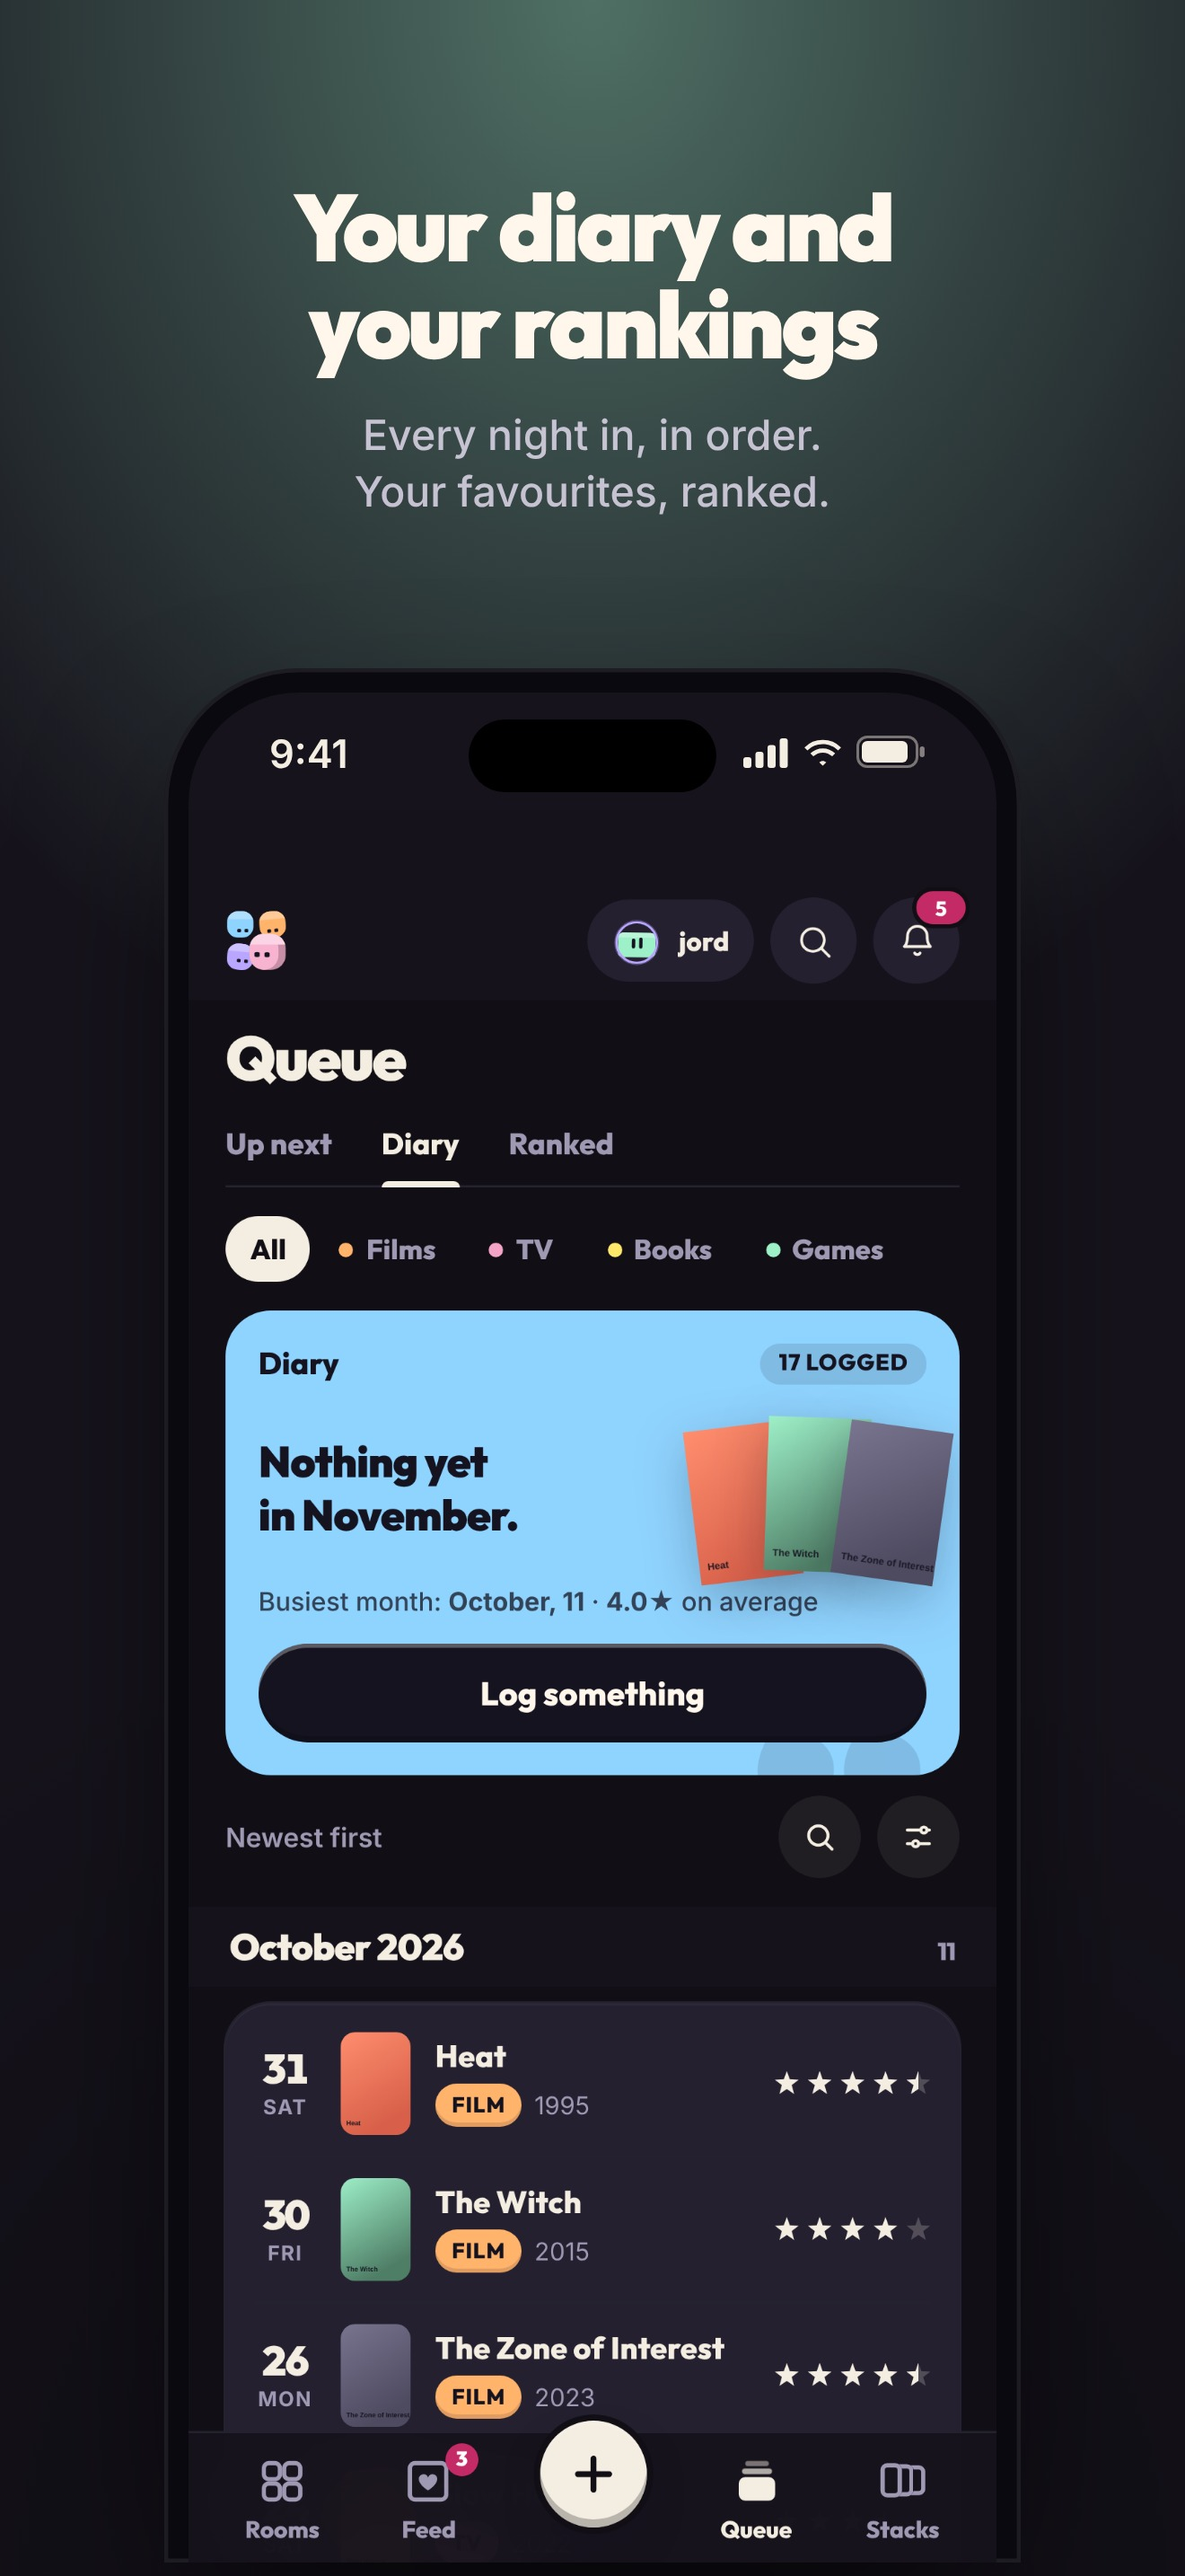
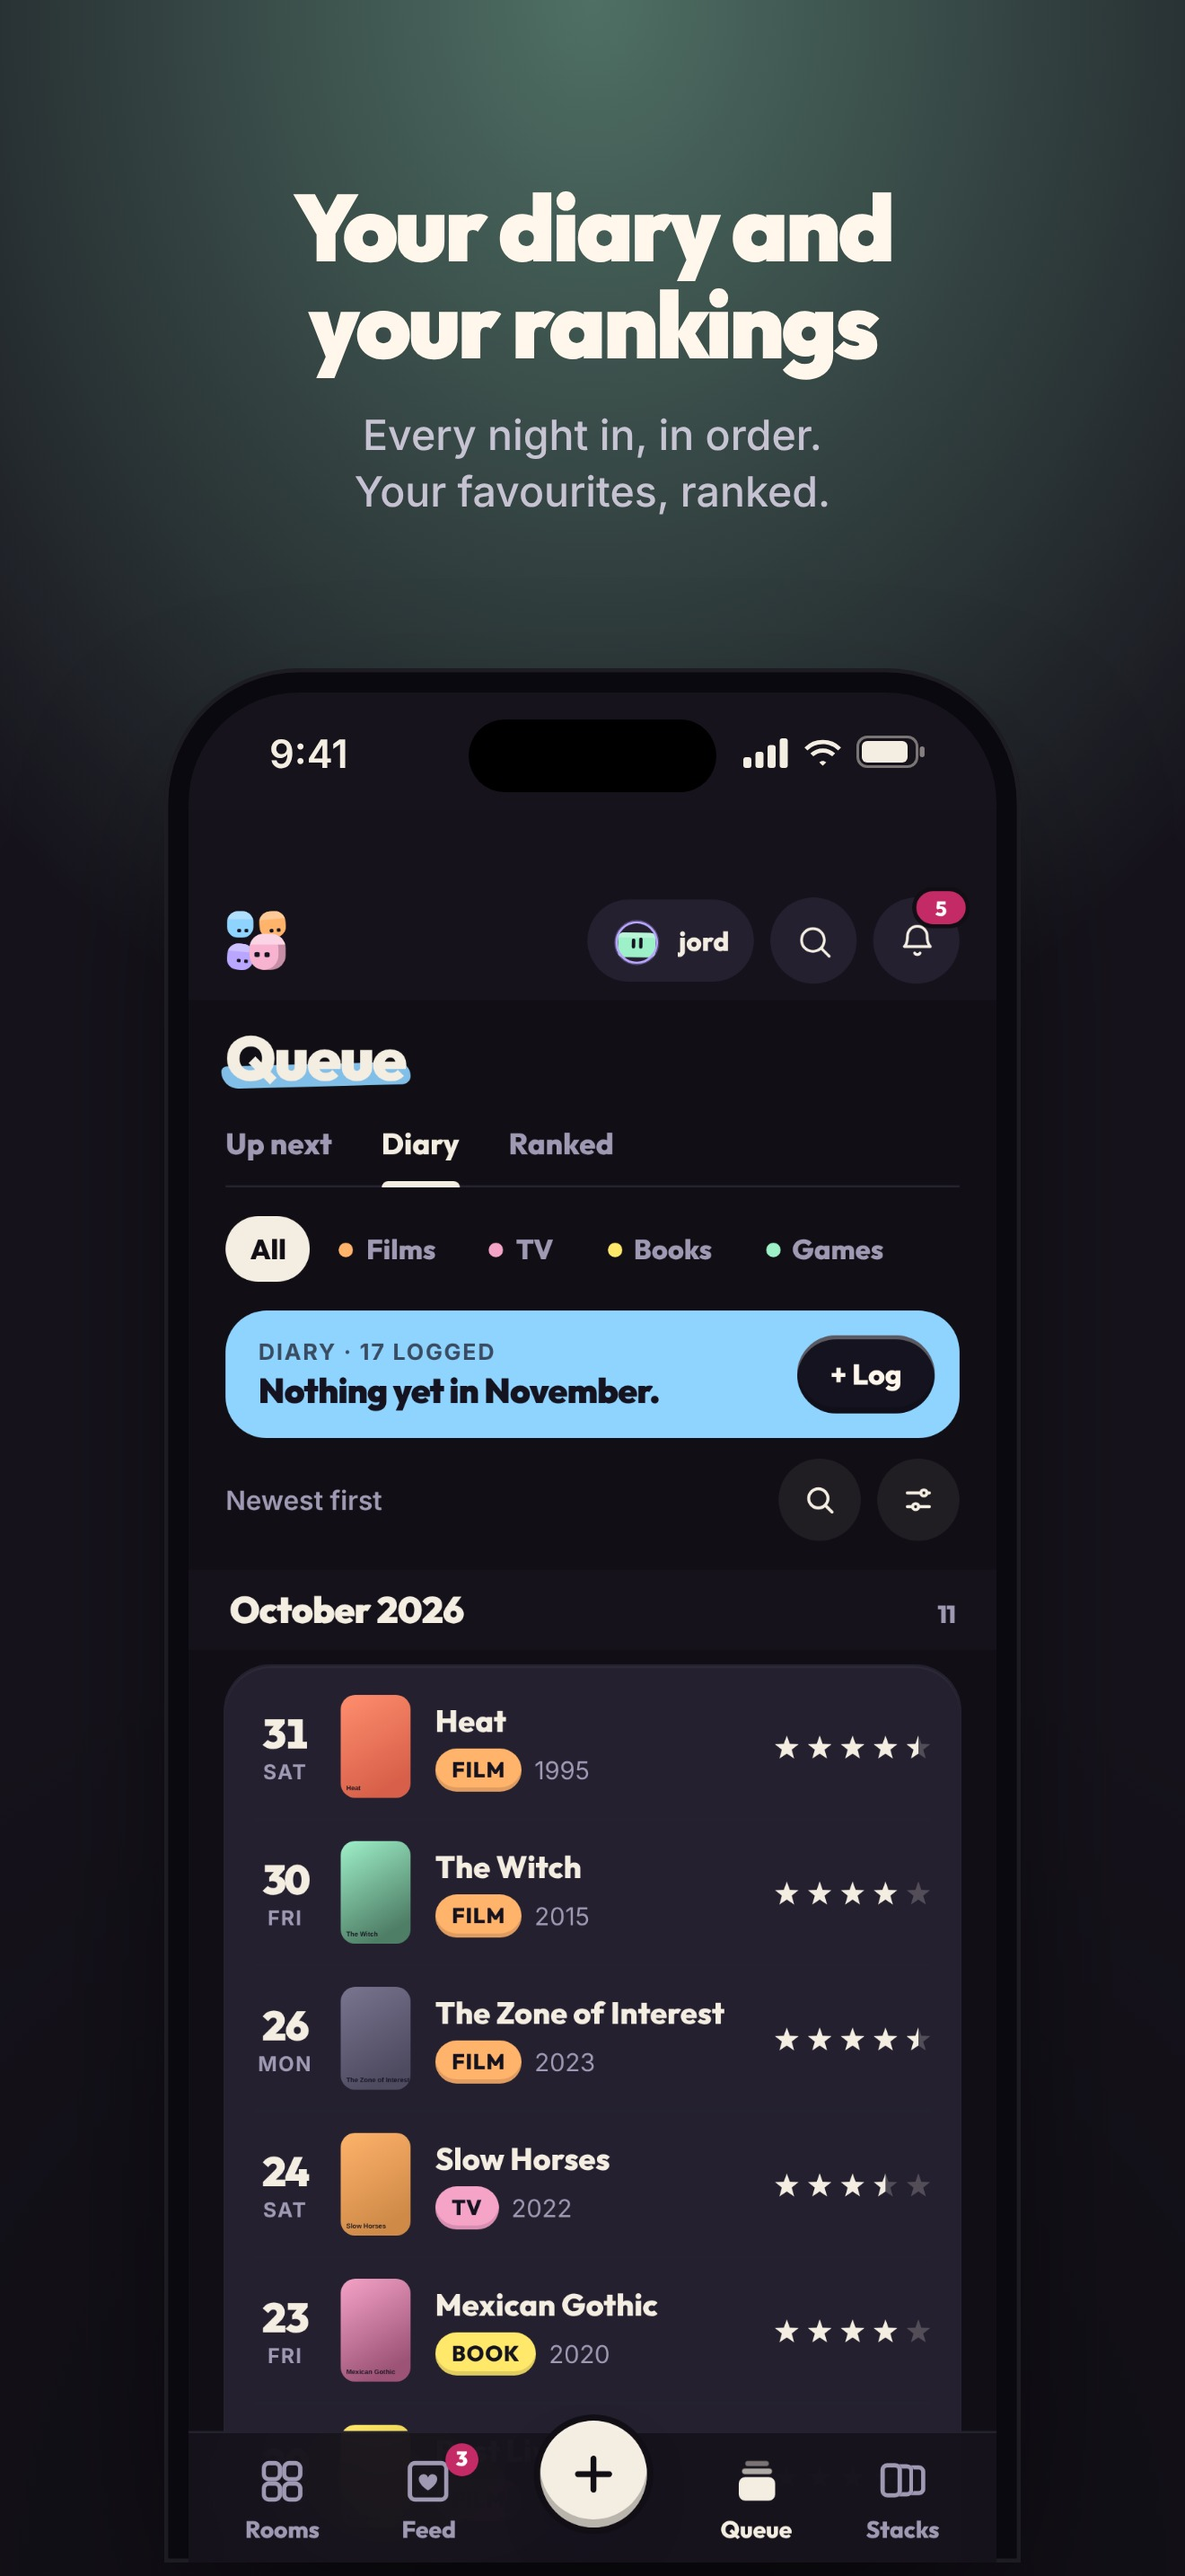
Slim top blocks for Diary, Ranked and Stacks
Up next keeps the big block. Diary, Ranked and Stacks get a slim one in the same
colour: one short row with the label and count, a one-line headline and a small
button (+ Log, Sharpen, + New), without the posters, big button or quote mark.
Ranked names your number ones in words now that there are no posters.

Claude-Session: https://claude.ai/code/session_011zRNukvtAgYpnhJAdsmgH9

diff --git a/index.html b/index.html
@@ -2169,6 +2169,13 @@ nav button .dot{top:0;right:calc(50% - 24px)}
 .roomhero .feedpick::before{right:30px;background:#FFF7EC;opacity:.75}
 #tab-people .pagetitle{--mk:var(--butter)}
 #tab-clubs .pagetitle{--mk:var(--pink)}
+/* the slim top block: same colour, one short row */
+.hero.slim{display:flex;align-items:center;gap:12px;padding:12px 12px 12px 16px;border-radius:20px}
+.hero.slim::before{content:none}
+.hero.slim .hs-t{flex:1;min-width:0;display:grid;gap:2px}
+.hero.slim .hs-t small{font:700 11px var(--body);letter-spacing:.07em;text-transform:uppercase;opacity:.7}
+.hero.slim .hs-t b{font:900 17px/1.2 var(--head);letter-spacing:-.02em;display:-webkit-box;-webkit-line-clamp:2;-webkit-box-orient:vertical;overflow:hidden}
+.hero.slim .hero-go{width:auto;flex:none;padding:10px 16px;font-size:14px;min-height:0}
 .chip.addown{border:1.5px dashed color-mix(in srgb,var(--mute) 60%,transparent);background:none;color:var(--mute)}
 .stk-bar{display:flex;gap:8px;align-items:center;margin:12px 0 14px}
 .stk-bar input{flex:1;min-width:0;margin:0}
@@ -8614,6 +8621,10 @@ const LENS = `<svg viewBox="0 0 24 24" aria-hidden="true"><circle cx="11" cy="11
    a headline that says something true about what's in here, a line under it, up to four
    posters fanned on the right (each opens), and the one thing you'd do next. */
 function heroHTML(o) {
+  /* the slim one: the same colour in one short row, for pages that only need a nudge */
+  if (o.slim) return `<div class="card game promptcard hero slim${o.cls ? " " + o.cls : ""}"${o.id ? ` id="${o.id}"` : ""} style="--room:${o.col.startsWith("#") ? o.col : `var(--${o.col})`}">
+    <div class="hs-t"><small>${esc(o.label)}<span class="hs-tag">${o.tag ? " · " + esc(o.tag) : ""}</span></small><b>${o.head}</b></div>
+    ${o.btn ? `<button class="btn hero-go" id="${o.btn.id}" type="button"${o.btn.aria ? ` aria-label="${esc(o.btn.aria)}"` : ""}>${o.btn.icon || ""}${esc(o.btn.label)}</button>` : ""}</div>`;
   const fan = (o.fan || []).filter(Boolean).slice(0, 4);
   return `<div class="card game promptcard hero${o.cls ? " " + o.cls : ""}"${o.id ? ` id="${o.id}"` : ""} style="--room:${o.col.startsWith("#") ? o.col : `var(--${o.col})`}">
     <div class="h"><span>${esc(o.label)}</span>${o.tag ? `<span class="tag dim">${esc(o.tag)}</span>` : ""}</div>
@@ -8638,19 +8649,20 @@ function paintCabHero() { const el = $("#cabHero"); if (!el) return;
     const avg = es.length ? es.reduce((t, e) => t + e.score, 0) / es.length / 2 : 0;
     const recent = es.slice().sort((a, b) => String(b.rated_on).localeCompare(String(a.rated_on)) || String(b.created_at || "").localeCompare(String(a.created_at || ""))).slice(0, 3).map(e => works[e.work_id]);
     const bits = [best && best[0] !== ym && best[1] > m ? `Busiest month: <b>${MONTH_FULL[+best[0].slice(5) - 1]}, ${best[1]}</b>` : "", es.length ? `<b>${avg.toFixed(1)}★</b> on average` : ""].filter(Boolean);
-    el.innerHTML = heroHTML({ col, label:"Diary", tag:`${es.length} logged`,
+    el.innerHTML = heroHTML({ slim:true, col, label:"Diary", tag:`${es.length} logged`,
       head:m ? `${numWord(m)} ${m === 1 ? one : what} so far in ${MONTH_FULL[now.getMonth()]}.` : `Nothing yet in ${MONTH_FULL[now.getMonth()]}.`,
-      meta:bits.join(" · "), fan:recent, btn:{ id:"cabHeroGo", label:k ? `Log ${k === "tv" ? "a show" : k === "game" ? "a game" : k === "book" ? "a book" : "a film"}` : "Log something" } });
+      meta:bits.join(" · "), fan:recent, btn:{ id:"cabHeroGo", label:"+ Log", aria:k ? `Log ${k === "tv" ? "a show" : k === "game" ? "a game" : k === "book" ? "a book" : "a film"}` : "Log something" } });
     $("#cabHeroGo", el).onclick = () => openAdd(); }
   else {
     const kinds = (k ? [k] : CAB_ORDER).filter(x => (rankCache[x] || []).some(id => works[id]));
     const tops = kinds.map(x => works[(rankCache[x] || []).find(id => works[id])]).filter(Boolean);
     const counts = kinds.map(x => [x, (rankCache[x] || []).filter(id => works[id]).length]);
     const big = counts.slice().sort((a, b) => b[1] - a[1])[0];
-    const head = !tops.length ? "Rate a few and your order builds itself." : k ? `${esc(tops[0].title)} is your number one ${one}.` : tops.length === 1 ? `${esc(tops[0].title)} is your number one.` : "Your number ones.";
-    el.innerHTML = heroHTML({ col, label:"Ranked", tag:`${counts.reduce((t, c) => t + c[1], 0)} in order`, head,
+    const head = !tops.length ? "Rate a few and your order builds itself." : k || tops.length === 1 ? `${esc(tops[0].title)} is your number one${k ? " " + one : ""}.`
+      : `Your number ones: ${tops.map(w => esc(w.title)).join(", ")}.`;
+    el.innerHTML = heroHTML({ slim:true, col, label:"Ranked", tag:`${counts.reduce((t, c) => t + c[1], 0)} in order`, head,
       meta:counts.map(([x, n]) => `${n} ${n === 1 ? (x === "tv" ? "show" : K(x).label.toLowerCase()) : x === "tv" ? "shows" : K(x).plural.toLowerCase()}`).join(" · "),
-      fan:tops, btn:big && big[1] >= 2 ? { id:"cabHeroGo", label:`Sharpen your ${big[0] === "tv" ? "shows" : K(big[0]).plural.toLowerCase()}` } : null });
+      fan:tops, btn:big && big[1] >= 2 ? { id:"cabHeroGo", label:"Sharpen", aria:`Sharpen your ${big[0] === "tv" ? "shows" : K(big[0]).plural.toLowerCase()}` } : null });
     const go = $("#cabHeroGo", el); if (go) go.onclick = () => $(`[data-sharpen="${big[0]}"]`)?.click(); }
   wireHero(el); }
 function renderCabinet() {
@@ -13465,10 +13477,10 @@ async function renderStacks() {
   const tab = STACK_TABS.some(([k]) => k === P.stackTab) ? P.stackTab : "popular";
   const places = STACK_TABS.map(([k, n]) => place(k, n, "lilac", "clubs"));
   body.innerHTML = `${pagerHTML(places, tab, { id:"stackPager", mode:"tabs", title:"Stacks" })}
-    ${heroHTML({ id:"stkHero", col:"pink", label:(STACK_TABS.find(([k]) => k === tab) || [, "Stacks"])[1], tag:"",
+    ${heroHTML({ slim:true, id:"stkHero", col:"pink", label:(STACK_TABS.find(([k]) => k === tab) || [, "Stacks"])[1], tag:"",
       head:tab === "yours" ? "Your stacks, and the ones you saved." : tab === "friends" ? "What your people have stacked." : "What would you stack?",
       meta:tab === "yours" ? "Make one for anything: a mood, a director, a long weekend." : tab === "friends" ? "Stacks from the people you follow and your rooms." : "Films, shows, books and games, stacked by anyone. Save the ones you like.",
-      btn:{ id:"stkNew", label:"+ New stack" } })}
+      btn:{ id:"stkNew", label:"+ New", aria:"Make a new stack" } })}
     <div class="stk-bar solo"><input id="stkSearch" type="search" placeholder="Search stacks or titles" aria-label="Search stacks" value="${esc(stackQ)}" autocomplete="off"></div>
     <div class="chips scroll stk-filters" id="stkFilters"></div>
     <div id="stkList"><div class="card">${skeleton(3)}</div></div>`;
@@ -13483,9 +13495,7 @@ async function renderStacks() {
   if (!$("#stkList")) return;
   const shapes = new Map(ls.map(l => [l.id, stackShape(l)]));
   /* the top block gets its count and a few covers once the stacks are in */
-  { const hb = $("#stkHero"); if (hb) { const t = $(".h", hb); if (t && !$(".tag", t)) t.insertAdjacentHTML("beforeend", `<span class="tag dim">${ls.length} ${ls.length === 1 ? "stack" : "stacks"}</span>`);
-      const fan = ls.slice(0, 3).map(l => works[l.items[0]?.work_id]).filter(Boolean);
-      if (fan.length && !$(".hero-fan", hb)) { $(".hero-body", hb).insertAdjacentHTML("beforeend", `<div class="hero-fan">${fan.map(w => `<button class="hero-po" data-herow="${esc(w.id)}" type="button" aria-label="${esc(w.title || "")}">${cover(w, "")}</button>`).join("")}</div>`); wireHero(hb); } } }
+  { const tg = $("#stkHero .hs-tag"); if (tg) tg.textContent = ` · ${ls.length} ${ls.length === 1 ? "stack" : "stacks"}`; }
   /* only the media and genres something here is actually of */
   const kindsHere = Object.keys(KINDS).filter(k => ls.some(l => shapes.get(l.id).kinds.has(k)));
   const tagCount = {}; ls.forEach(l => shapes.get(l.id).tags.forEach(t => tagCount[t] = (tagCount[t] || 0) + 1));
